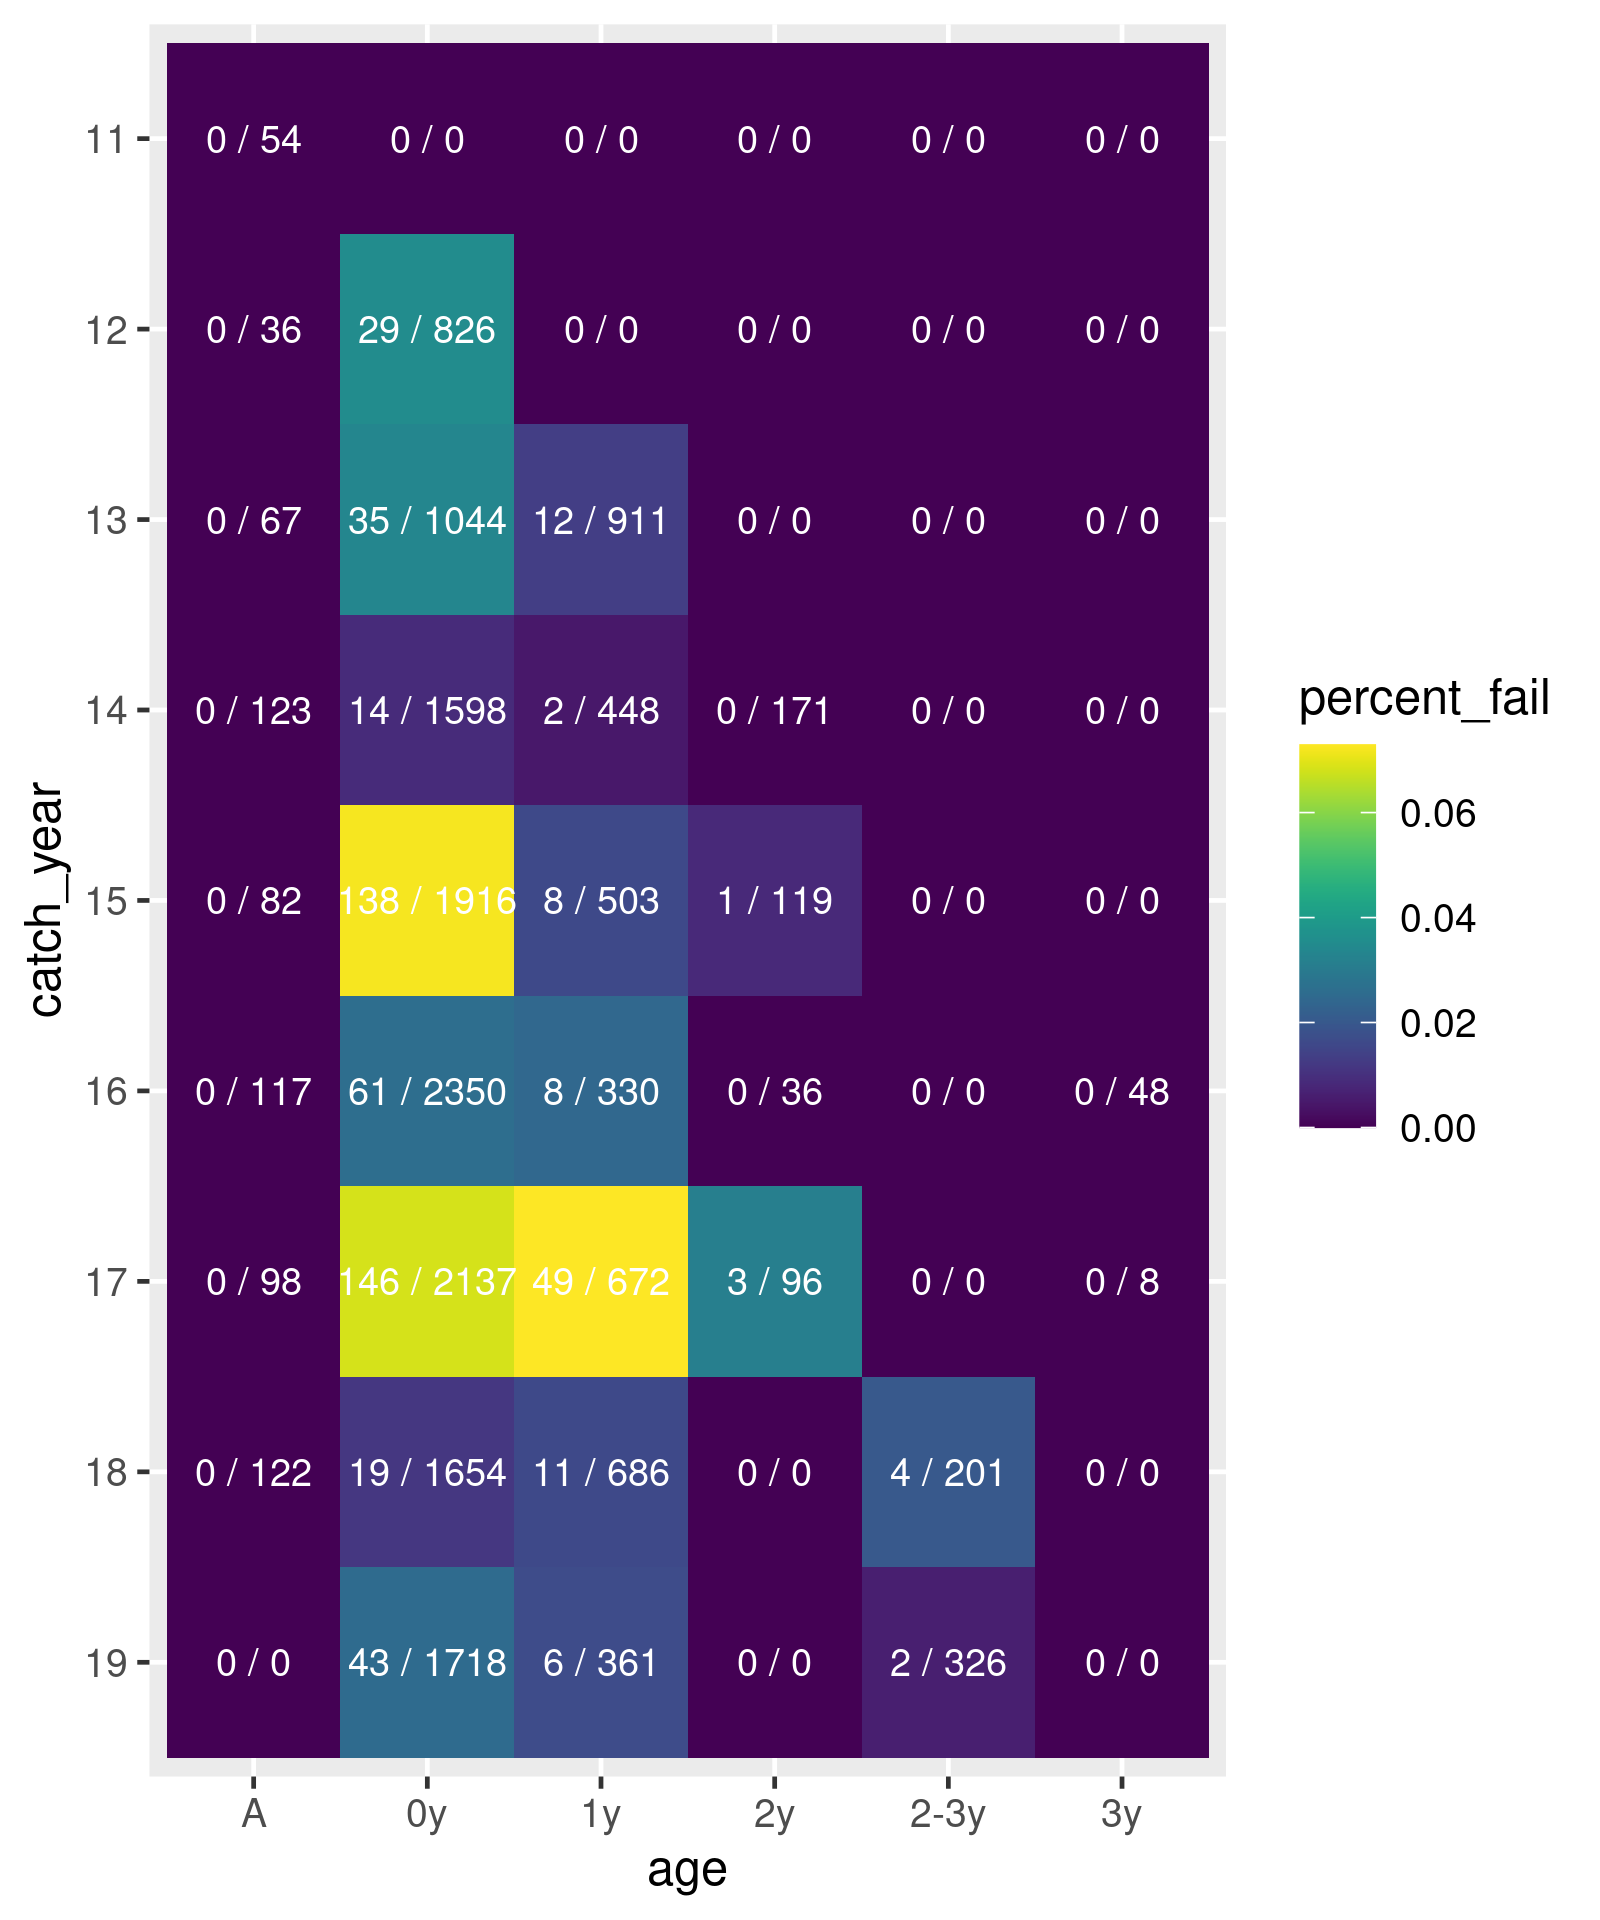
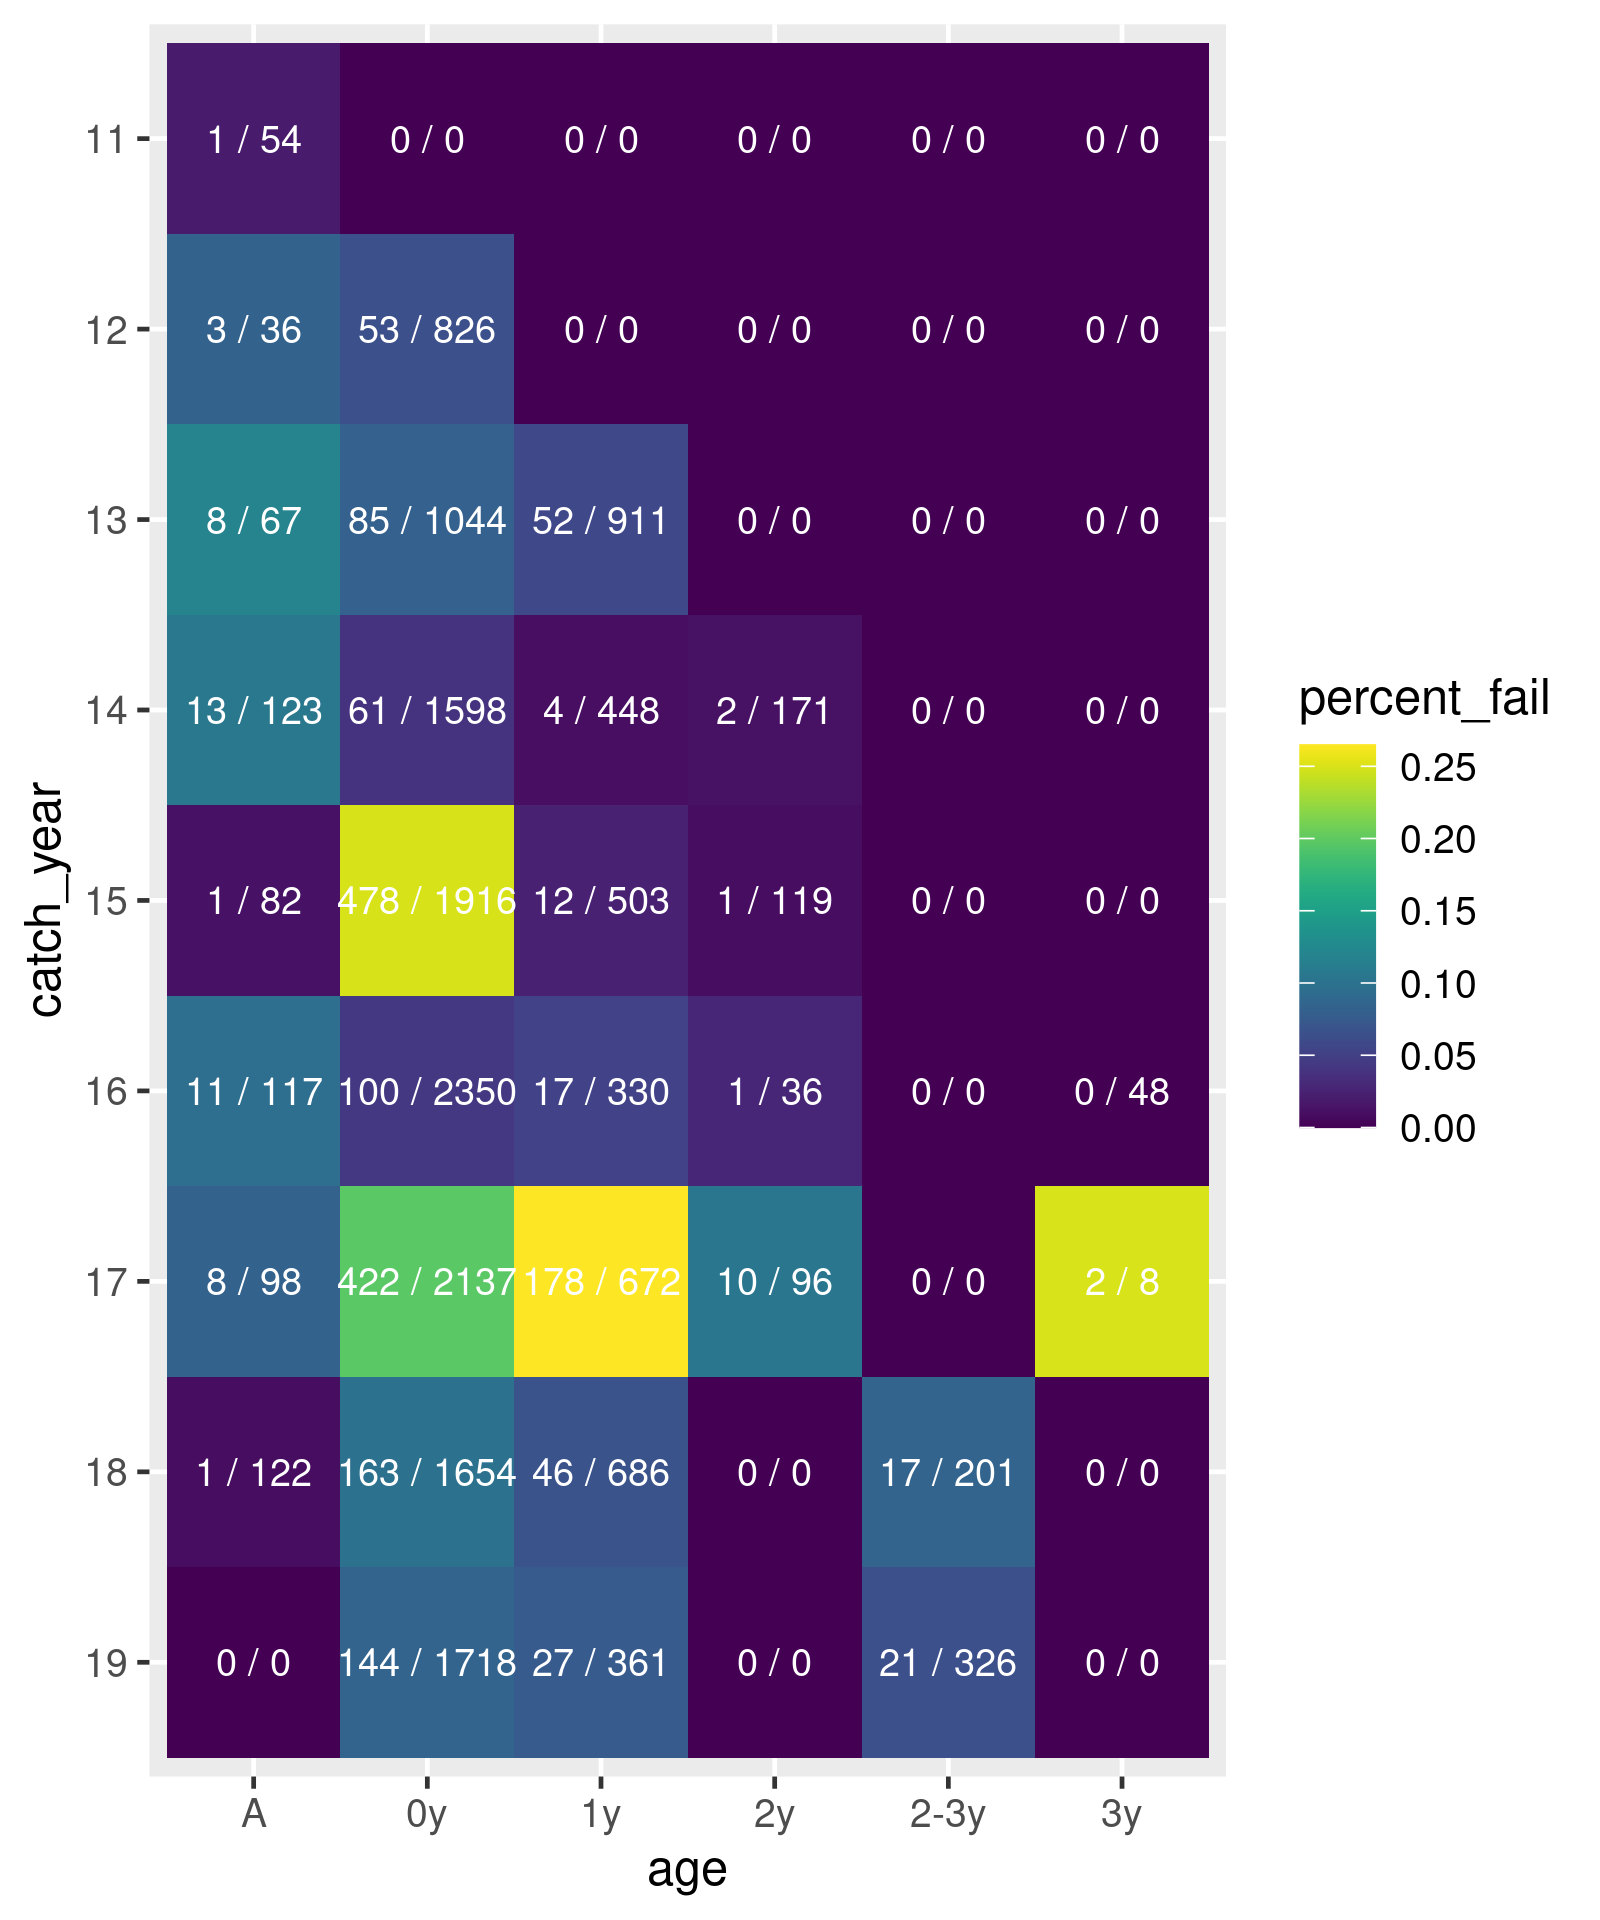
updated

diff --git a/lifehist_prep.py b/lifehist_prep.py
@@ -38,7 +38,9 @@ def main():
     id_info = args.filtered_csv
     adult_ages = args.adult_csv
 
-    adult_dict = adult_age(adult_ages)
+    # adult_dict = adult_age(adult_ages)
+    year_dict = {x.split(',')[1].replace('"', ''): x.split(',')[15]
+                 for x in open(adult_ages) if not x.startswith('""')}
 
     # reformat id file
 
@@ -70,20 +72,21 @@ def main():
             sex = sexes[sex]
 
             # calculate birth year
-            catch_year = fish_id.split('_')[1]
+            # catch_year = fish_id.split('_')[1]
 
-            if 'A' in catch_year:
-                # age = 5 + int(age.replace('SW', ''))
-                # birth_approx = (int(catch_year.replace('A', '')) + 2000) - 5
-                try:
-                    birth_approx = (int(catch_year.replace('A', '')) + 2000) - adult_dict[fish_id]
-                except KeyError:
-                    birth_approx = (int(catch_year.replace('A', '')) + 2000) - 6
+            # if 'A' in catch_year:
+            #     # age = 5 + int(age.replace('SW', ''))
+            #     # birth_approx = (int(catch_year.replace('A', '')) + 2000) - 5
+            #     try:
+            #         birth_approx = (int(catch_year.replace('A', '')) + 2000) - adult_dict[fish_id]
+            #     except KeyError:
+            #         birth_approx = (int(catch_year.replace('A', '')) + 2000) - 6
+            #
+            # else:
+            #     juv_age = int(fish_id.split('_')[2].replace('y', '').replace('pp', '').replace('-3', ''))
+            #     birth_approx = int(catch_year) + 2000 - juv_age
 
-            else:
-                juv_age = int(fish_id.split('_')[2].replace('y', '').replace('pp', '').replace('-3', ''))
-                birth_approx = int(catch_year) + 2000 - juv_age
-
+            birth_approx = year_dict[fish_id]
             print(fish_id, sex, birth_approx, sep=',', file=lifehist)
 
 
